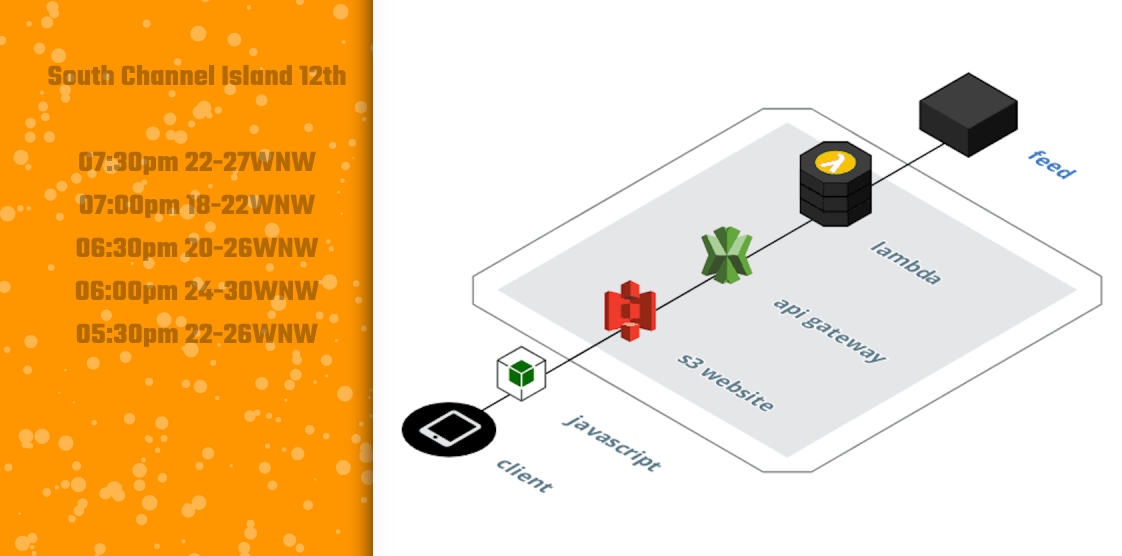
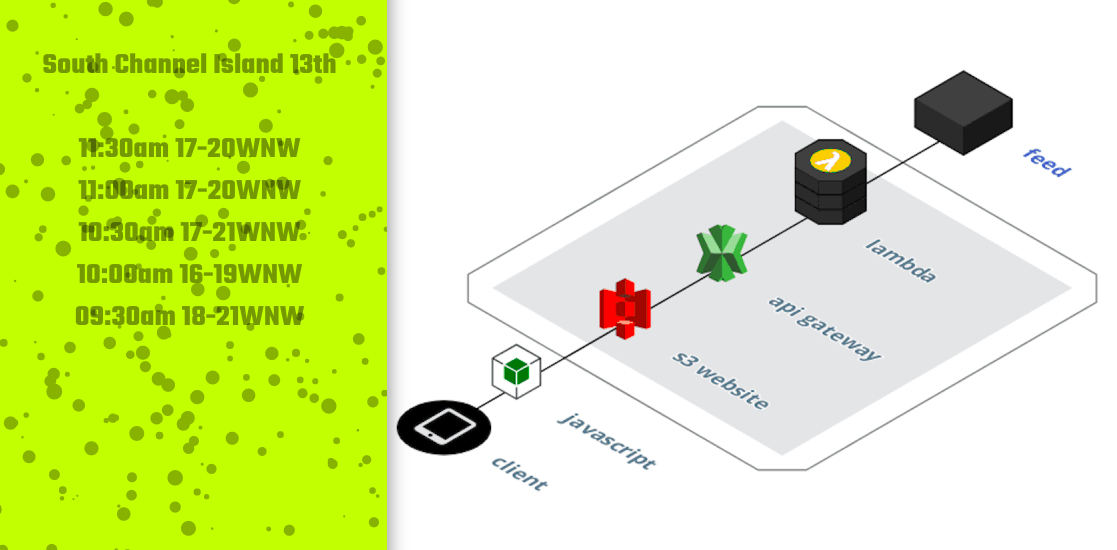
fixed scrollbars

diff --git a/index.html b/index.html
@@ -16,7 +16,7 @@
     <title>kitesurf</title>
     <meta name="description" content="A simple (serverless) kitesurfing windspeed app." />
     <meta name="viewport" content="width=device-width, initial-scale=1.0, maximum-scale=1.0, user-scalable=no" />
-		<link href="apple-touch-icon7.png" rel="apple-touch-icon" />
+		<link href="apple-touch-icon8.png" rel="apple-touch-icon" />
     <link rel="icon" href="favicon.png">
     <meta name="apple-mobile-web-app-capable" content="yes">
     <meta name="apple-mobile-web-app-status-bar-style" content="black-translucent">

diff --git a/style.css b/style.css
@@ -6,7 +6,8 @@ body{
   z-index: 1;
   padding: 0;
   position: absolute;
-  background-color: rgba(250, 150, 50,1);
+  background-color: rgba(220, 255, 0,1);
+  overflow:hidden;
 }
 
 
@@ -29,7 +30,7 @@ fieldset {
   padding: 0;
   text-align: center;
   font-size: 5vh;
-  color: rgba(0, 0, 0,.3);
+  color: rgba(0, 0, 0,.4);
   float: inherit;
 
   text-align: center;

diff --git a/kite.js b/kite.js
@@ -109,7 +109,7 @@ function bubbles() {
 	{
 		ctx.clearRect(0, 0, W, H);
 
-		ctx.fillStyle = "rgba(255,255,255,.3)";
+		ctx.fillStyle = "rgba(0,0,0,.3)";
 		ctx.beginPath();
 		for(var i = 0; i < mp; i++)
 		{
